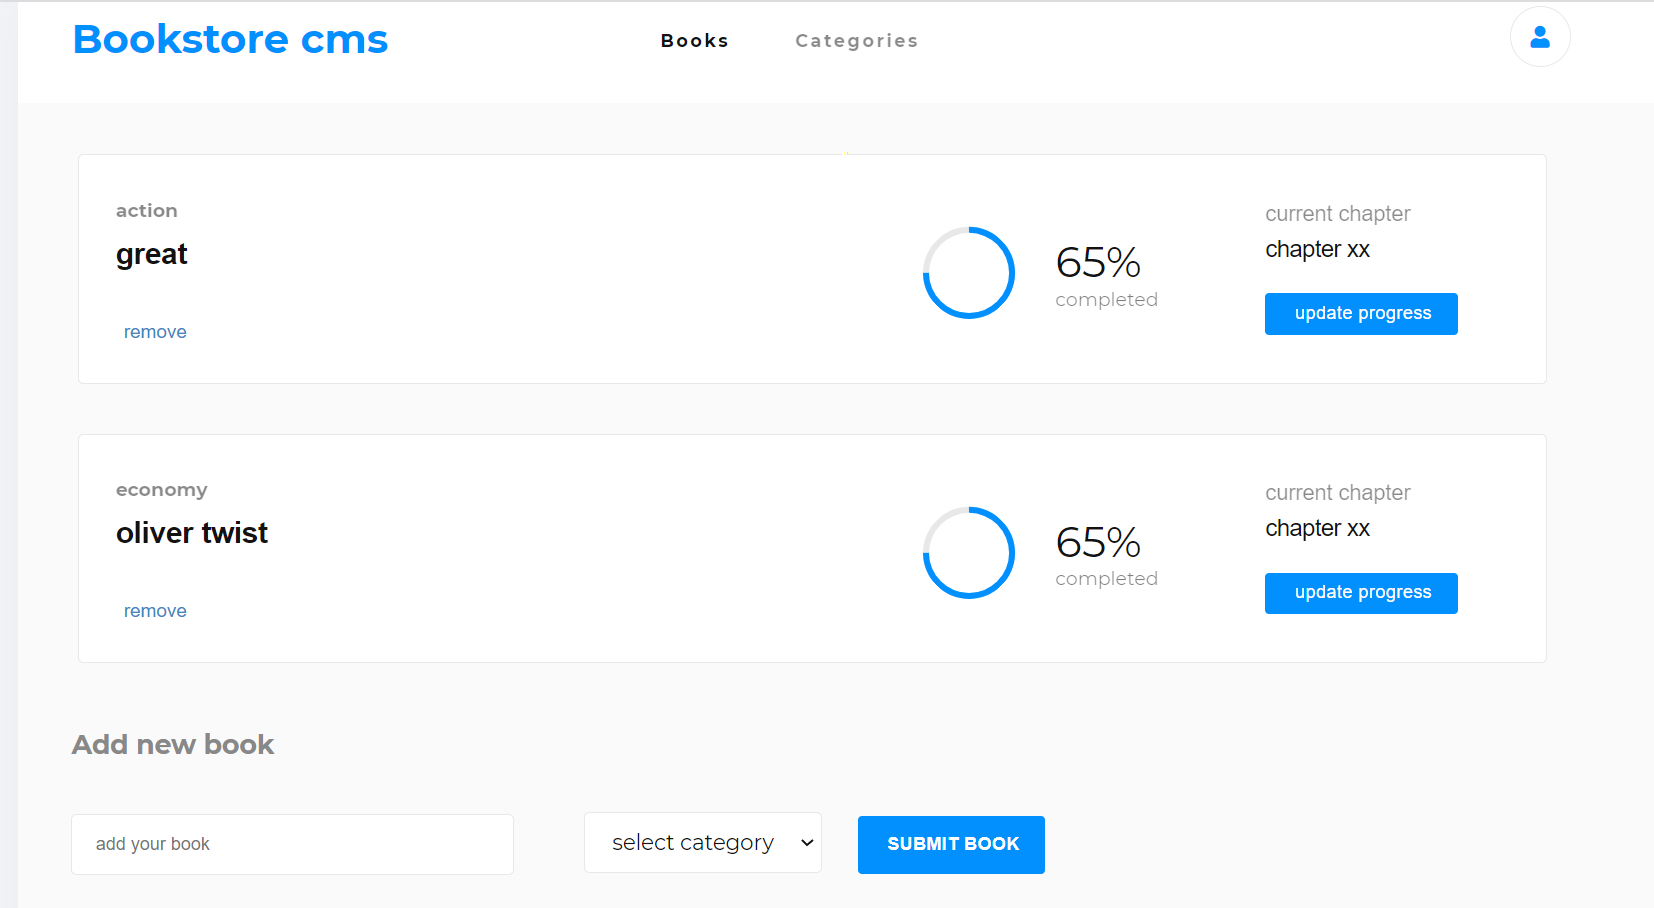
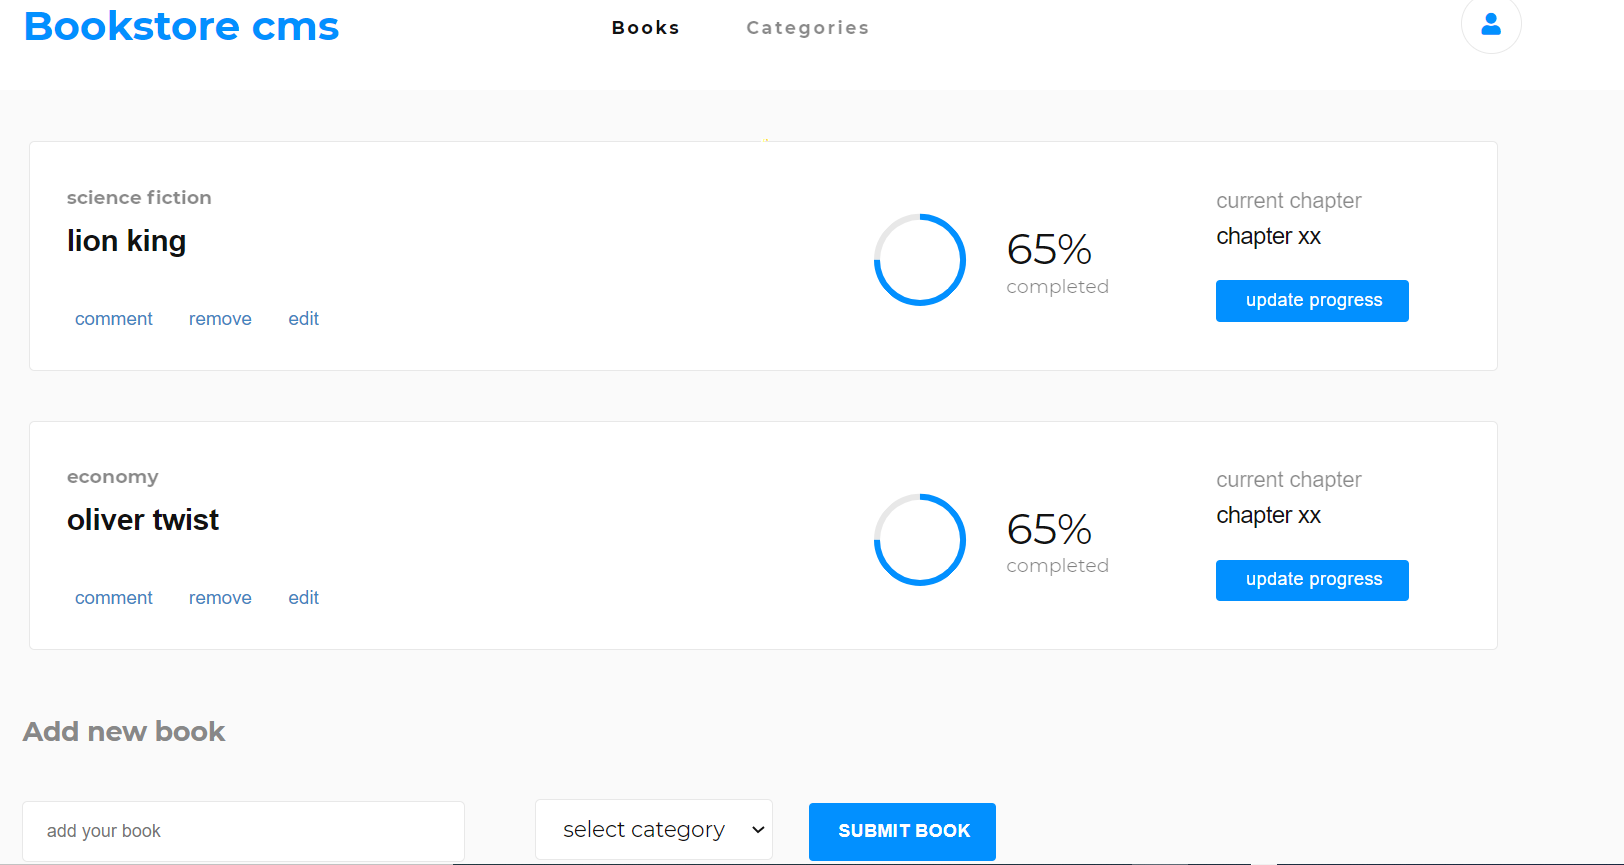
removed unused readme, updated interactive buttons, removed commented code

diff --git a/src/components/Books.js b/src/components/Books.js
@@ -16,13 +16,16 @@ const Books = (props) => {
 
   return (
     <li>
-      {/* <div className="allbook-style"> */}
       <div className="book-detail">
         <div className="book-type-name">
           <p className="book-type">{bookType}</p>
           <p className="book-name">{name}</p>
         </div>
-        <button type="button" className="remove-button" onClick={() => removeBook(book)}>remove</button>
+        <div className="interactive-btn">
+          <button type="button" className="int-button">comment</button>
+          <button type="button" className="int-button" onClick={() => removeBook(book)}>remove</button>
+          <button type="button" className="int-button">edit</button>
+        </div>
       </div>
       <div className="chapter-completion">
         <div className="completion-data">
@@ -38,7 +41,6 @@ const Books = (props) => {
           <button type="button" className="update-progress">update progress</button>
         </div>
       </div>
-      {/* </div> */}
     </li>
   );
 };

diff --git a/src/index.css b/src/index.css
@@ -141,8 +141,11 @@ ul.book-list li {
   color: #121212;
 }
 
-.remove-button {
-  width: 3.375rem;
+.interactive-button {
+  display: flex;
+}
+
+.int-button {
   height: 1.188rem;
   margin: 0.188rem 0.938rem 0.125rem 0;
   font-family: RobotoSlab, Arial, Helvetica, sans-serif;
